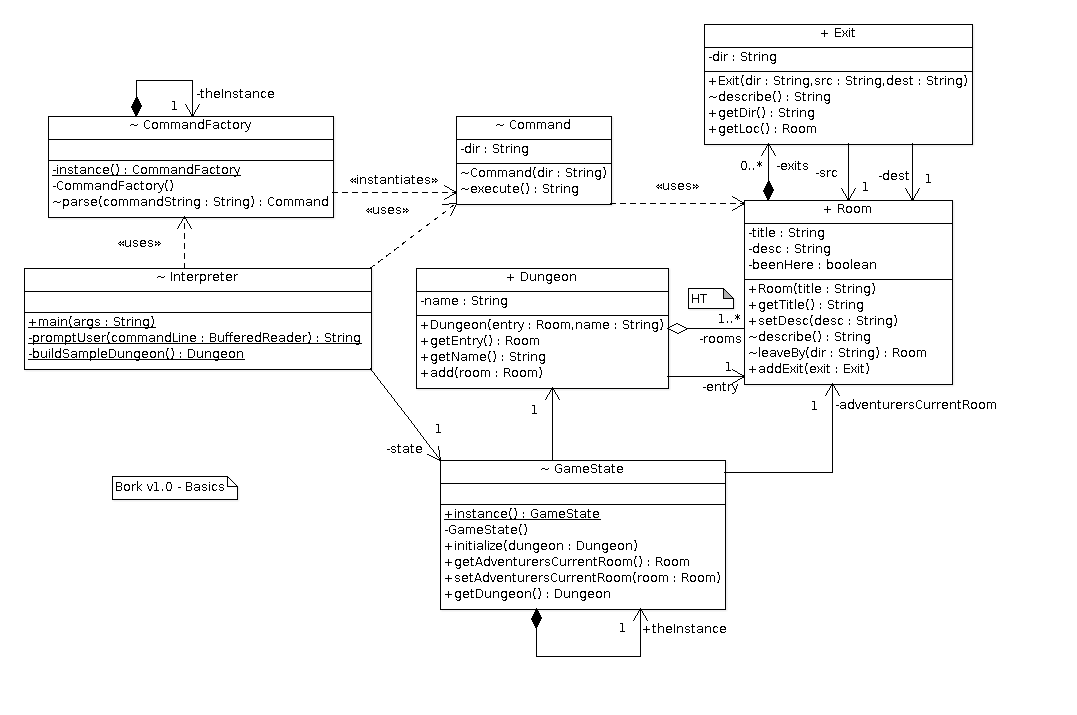
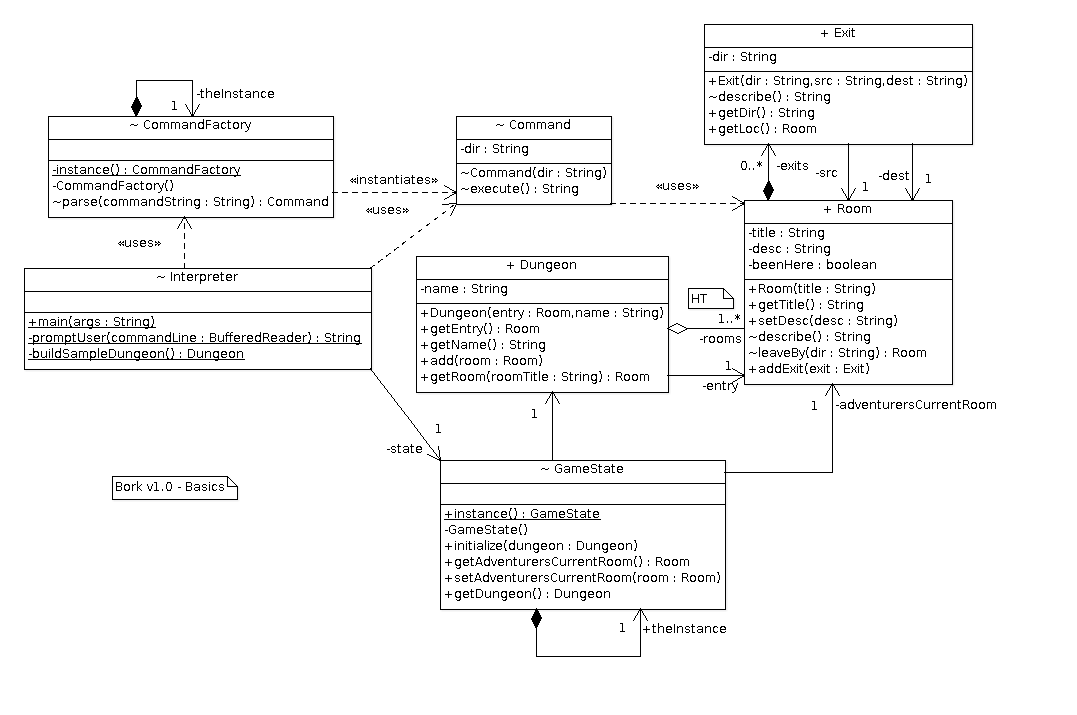
Add Dungeon::getRoom() method to v1.

Changed region(s): [[0.3983, 0.3692, 0.6128, 0.5538], [0.6435, 0.5231, 0.7047, 0.5538]]

diff --git a/src/edu/umw/bork/stephen/Dungeon.java b/src/edu/umw/bork/stephen/Dungeon.java
@@ -19,4 +19,8 @@ public class Dungeon {
     public String getName() { return name; }
     public void add(Room room) { rooms.put(room.getTitle(), room); }
 
+    public void getRoom(String roomTitle) {
+        return rooms.get(roomTitle); 
+    }
+
 }
